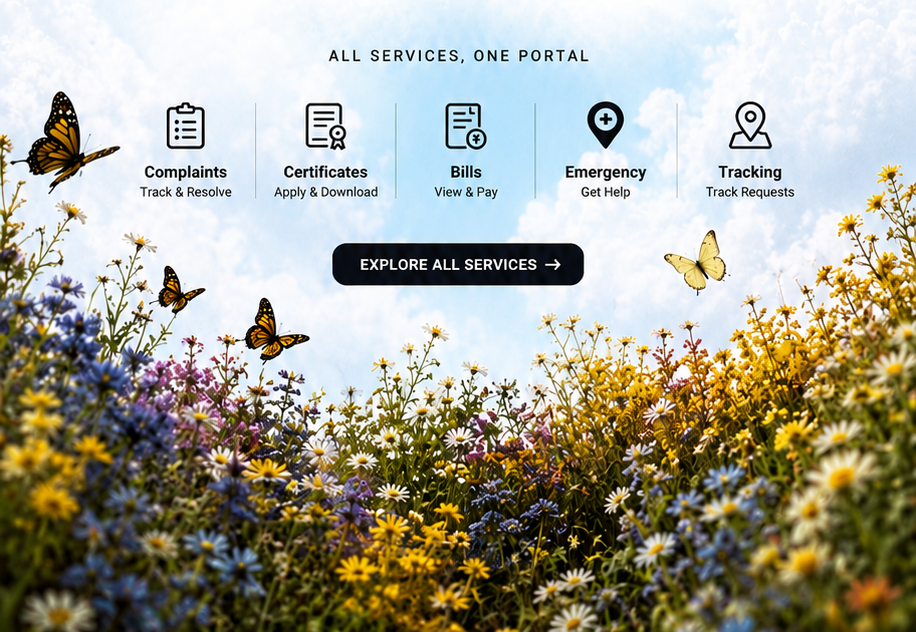
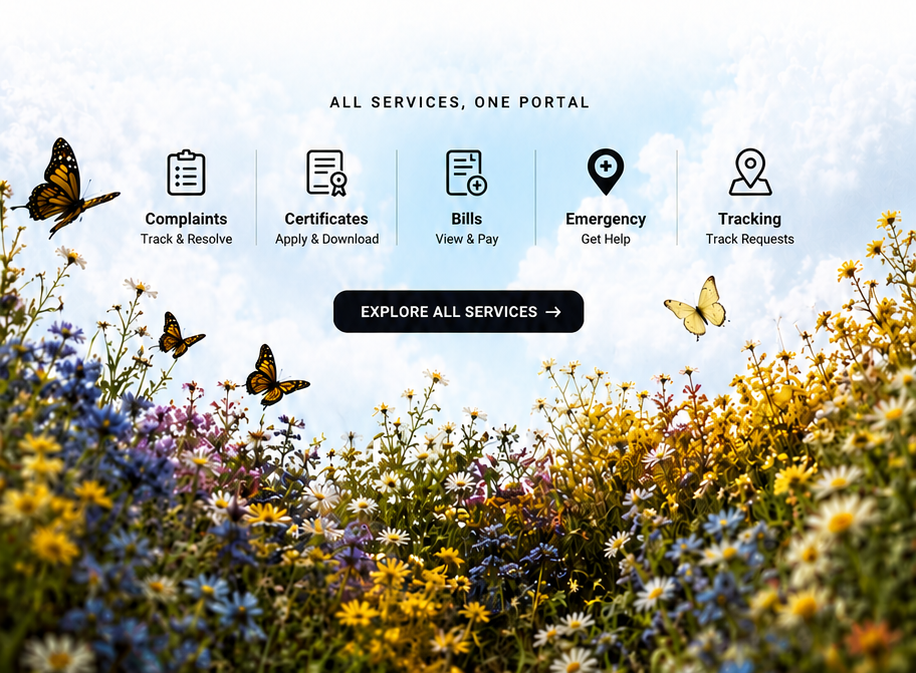
feat: improve email template design and assets

diff --git a/backend/utils/emailTemplate.js b/backend/utils/emailTemplate.js
@@ -48,10 +48,10 @@ text-decoration:none;
 
 .darkButton{
 display:inline-block;
-padding:13px 30px;
+padding:11px 29px;
 background:#111827;
 color:#ffffff !important;
-font-size:15px;
+font-size:13px;
 font-weight:600;
 border-radius:999px;
 text-decoration:none;
@@ -79,7 +79,13 @@ white-space:pre-line;
 
 </head>
 
-<body>
+<body
+style="
+margin:0;
+padding:0;
+background-color:#eef3f8;
+background:#eef3f8;
+">
 
 <table
 width="100%"
@@ -112,17 +118,46 @@ style="max-width:800px;background:white;"
 <!-- ========================= -->
 
 <tr>
+<td>
+
+<img
+src="https://smart-city-backend-pax7.onrender.com/email-assets/part1_top_header.png"
+width="800"
+style="display:block;width:100%;max-width:800px;height:auto;border:0;"
+alt="Smart City Header">
+
+</td>
+</tr>
+
+<!-- ========================= -->
+<!-- HTML CONTENT -->
+<!-- ========================= -->
+
+<tr>
+<td bgcolor="#ffffff">
+
+<table
+width="100%"
+cellpadding="0"
+cellspacing="0"
+border="0"
+bgcolor="#ffffff"
+style="background:#ffffff;background-color:#ffffff;">
+
+<tr>
 
 <td
+bgcolor="#ffffff"
 style="
-background:#ffffff;
-padding:28px 42px;
+background:#ffffff !important;
+background-color:#ffffff !important;
+padding:18px 42px;
 font-family:Arial,Helvetica,sans-serif;
 ">
 
 <h2
 style="
-margin:0 0 16px;
+margin:0 0 6px;
 font-size:24px;
 font-weight:700;
 color:#111827;
@@ -151,7 +186,7 @@ role="presentation"
 cellpadding="0"
 cellspacing="0"
 border="0"
-style="margin-top:24px;"
+style="margin-top:12px;"
 >
 
 <tr>
@@ -165,6 +200,12 @@ class="darkButton">
 VIEW IN PORTAL →
 
 </a>
+
+</td>
+
+</tr>
+
+</table>
 
 </td>
 

diff --git a/backend/controllers/emailController.js b/backend/controllers/emailController.js
@@ -32,6 +32,8 @@ exports.sendToUser = async (req, res) => {
       servicesLink: "http://localhost:5173/services",
     });
 
+    console.log("sendToUser called:", email, new Date().toISOString());
+
     await transporter.sendMail({
       from: `"Smart City Administration" <${process.env.EMAIL_USER}>`,
       to: email,
@@ -83,6 +85,8 @@ exports.sendToAllUsers = async (req, res) => {
         portalLink: "http://localhost:5173",
         servicesLink: "http://localhost:5173/services",
       });
+
+      console.log("sendToAllUsers called:", user.email, new Date().toISOString());
 
       await transporter.sendMail({
         from: `"Smart City Administration" <${process.env.EMAIL_USER}>`,

diff --git a/frontend/src/pages/AdminNotifications.jsx b/frontend/src/pages/AdminNotifications.jsx
@@ -21,6 +21,7 @@ function AdminNotifications() {
                 recipient === "all"
                     ? "http://localhost:5000/api/email/send-all"
                     : "http://localhost:5000/api/email/send-user";
+            console.log("API called:", url);
 
             await axios.post(url, {
                 email,
